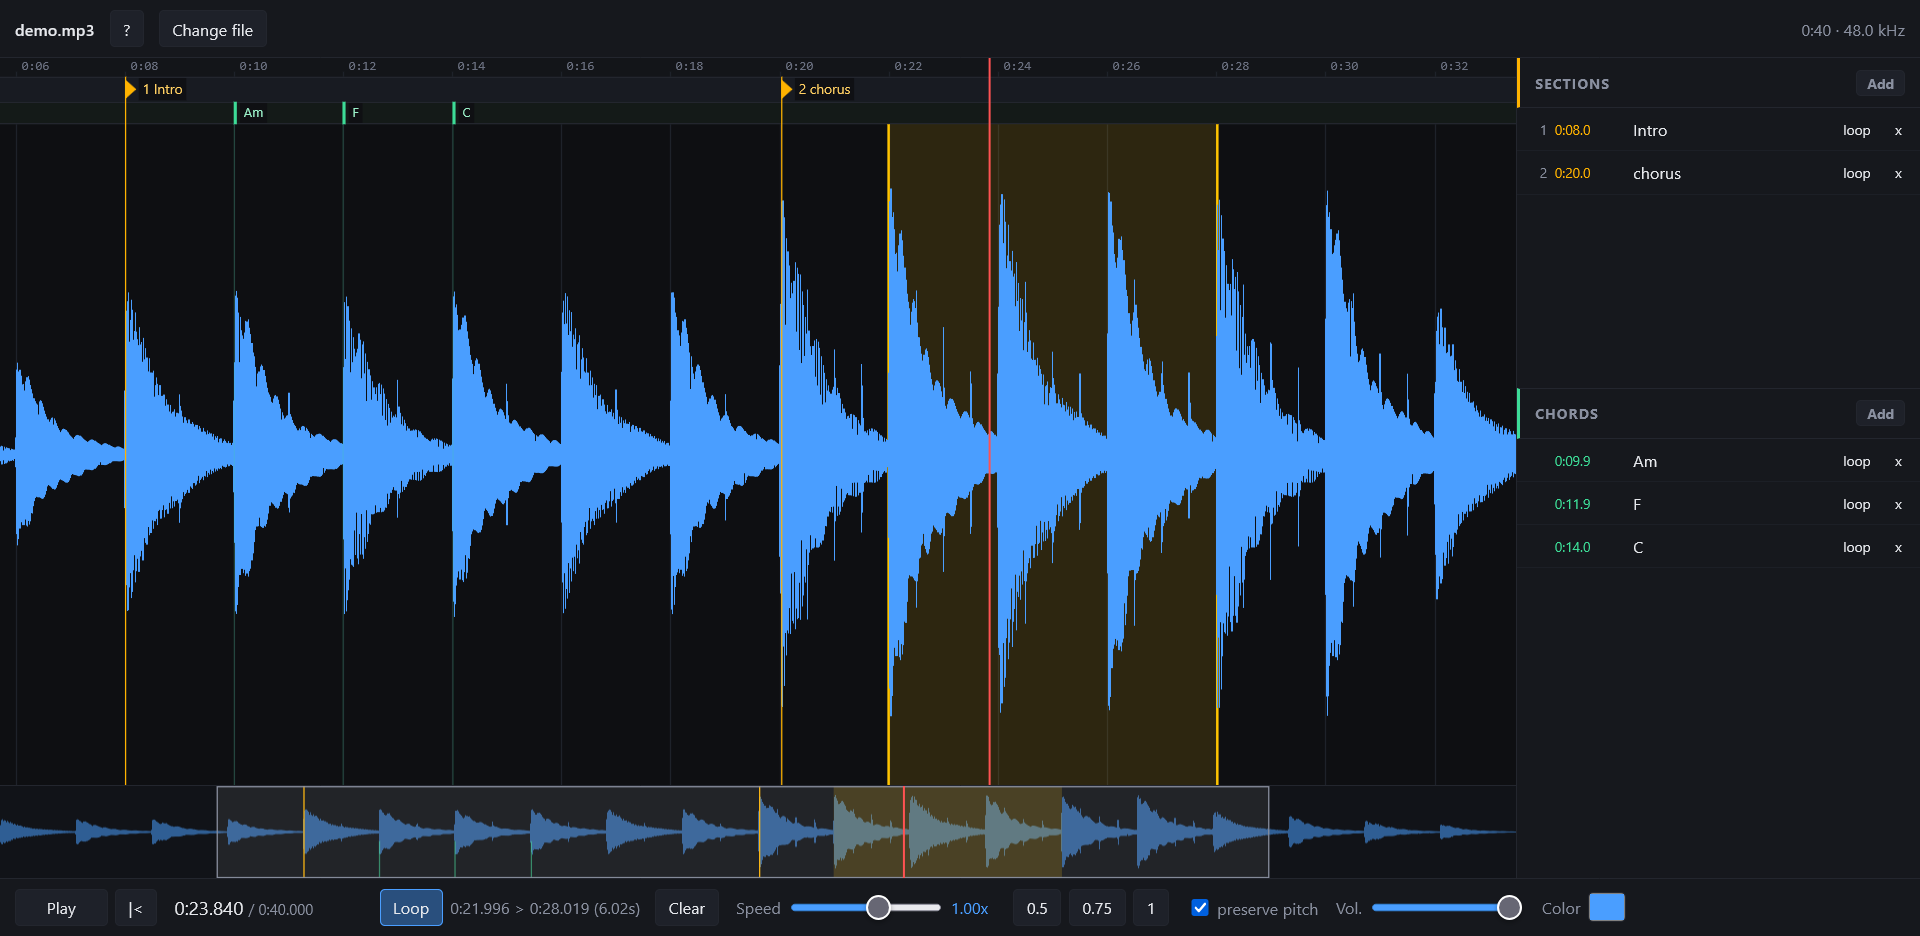
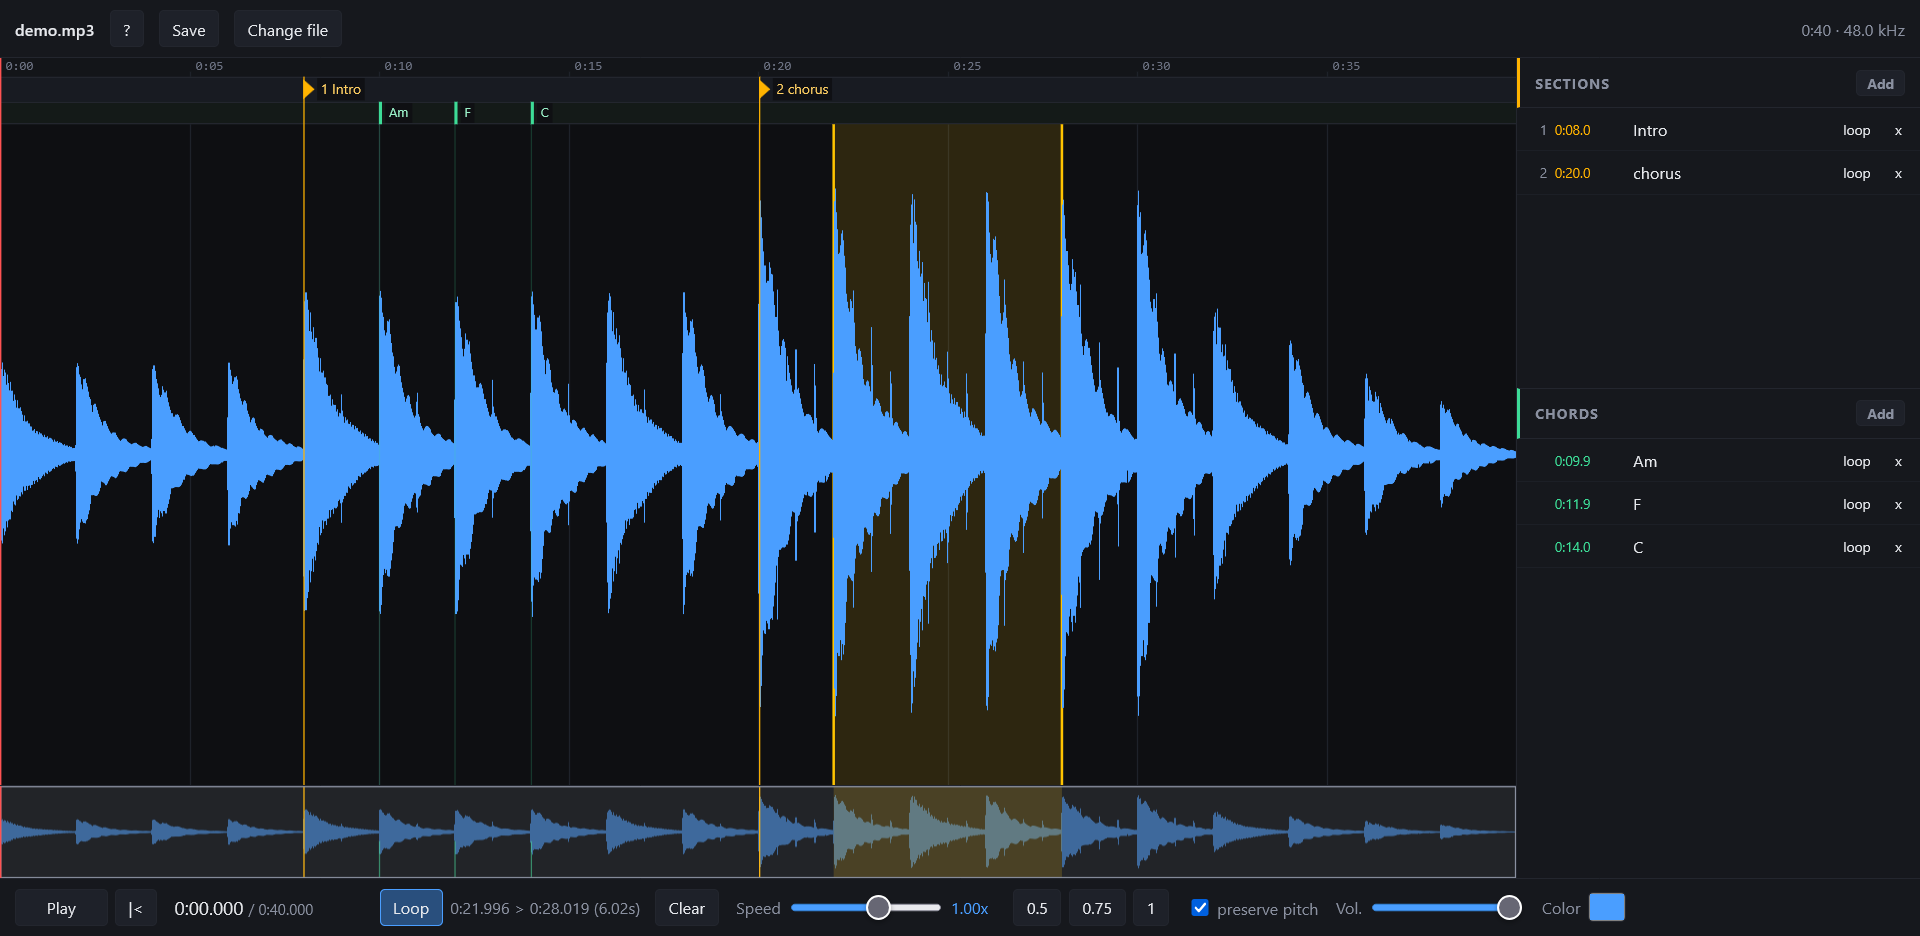
feat: save and load the markers as a file
localStorage is per browser and per machine, so work on the same song
could not move between machines. Add an export to a small .aures.json,
from the Save button or the S key, and an import by dropping that file
on the window, the same gesture that loads audio.

The document is matched against the size and duration of the open
audio, never against its name, so renaming the track does not break the
correspondence. A document from a different audio is refused outright:
the times would be meaningless against another cut of the song.

localStorage and the file now share one shape through snapshot() and
applyData(), rather than each keeping its own.

Claude-Session: https://claude.ai/code/session_01RhNtwW3cKpFYsckrPhUQWs

diff --git a/index.html b/index.html
@@ -184,6 +184,7 @@ input[type=color]{
   <header>
     <span class="name" id="fname"></span>
     <button id="hintbtn" title="Show or hide the shortcuts">?</button>
+    <button id="save" title="Save the markers to a file (S)">Save</button>
     <button id="close" title="Load another file">Change file</button>
     <span class="meta" id="fmeta"></span>
   </header>
@@ -227,6 +228,7 @@ input[type=color]{
                 <div class="row"><b>1..9</b>jump to section n</div>
                 <div class="row"><b>+ -</b>speed</div>
                 <div class="row"><b>F</b>follow the playhead</div>
+                <div class="row"><b>S</b>save the markers to a file</div>
                 <div class="row"><b>home</b>back to start</div>
                 <div class="row"><b>? / H</b>open or close this help</div>
               </div>
@@ -288,7 +290,7 @@ const audio = new Audio();
 audio.preload = "auto";
 
 const S = {
-  url:null, key:null, name:"",
+  url:null, key:null, name:"", size:0,
   peaks:null, nPeaks:0, sampleRate:44100, duration:0,
   view:{s:0, e:0},
   loop:{on:false, s:null, e:null},
@@ -319,6 +321,7 @@ async function load(file){
   S.peaks = null; S.nPeaks = 0;
   S.markers = []; S.chords = []; S.loop = {on:false, s:null, e:null};
   S.name = file.name;
+  S.size = file.size;
   S.url = URL.createObjectURL(file);
   audio.src = S.url;
 
@@ -389,31 +392,86 @@ function buildPeaks(ab){
 
 /* ---------- persistence ---------- */
 
-let saveT = null;
-function save(){
-  if(!S.key) return;
-  clearTimeout(saveT);
-  saveT = setTimeout(() => {
-    try{
-      localStorage.setItem(S.key, JSON.stringify({
-        markers: S.markers,
-        chords: S.chords,
-        loop: S.loop,
-        rate: audio.playbackRate,
-        pitch: $("pitch").checked
-      }));
-    }catch(e){ /* quota full or private mode: not critical */ }
-  }, 300);
+// the same shape goes to localStorage and to an exported file
+function snapshot(){
+  return {
+    markers: S.markers,
+    chords: S.chords,
+    loop: S.loop,
+    rate: audio.playbackRate,
+    pitch: $("pitch").checked
+  };
 }
-function restore(){
-  let d = null;
-  try{ d = JSON.parse(localStorage.getItem(S.key) || "null"); }catch(e){}
+function applyData(d){
   if(!d) return;
   S.markers = Array.isArray(d.markers) ? d.markers : [];
   S.chords  = Array.isArray(d.chords)  ? d.chords  : [];
   if(d.loop) S.loop = {on:!!d.loop.on, s:d.loop.s, e:d.loop.e};
   if(d.rate) setRate(d.rate);
   if(typeof d.pitch === "boolean"){ $("pitch").checked = d.pitch; applyPitch(); }
+}
+
+let saveT = null;
+function save(){
+  if(!S.key) return;
+  clearTimeout(saveT);
+  saveT = setTimeout(() => {
+    try{
+      localStorage.setItem(S.key, JSON.stringify(snapshot()));
+    }catch(e){ /* quota full or private mode: not critical */ }
+  }, 300);
+}
+function restore(){
+  let d = null;
+  try{ d = JSON.parse(localStorage.getItem(S.key) || "null"); }catch(e){}
+  applyData(d);
+}
+
+/* ---------- export and import ---------- */
+
+// localStorage is per browser and per machine. a file carries the work to
+// another machine, but only back onto the same audio: the times mean nothing
+// against a different cut of the song.
+
+let flashT = null;
+function flash(msg){
+  setStatus(msg);
+  clearTimeout(flashT);
+  flashT = setTimeout(() => setStatus(""), 4000);
+}
+
+function exportFile(){
+  if(!S.key) return;
+  const doc = {
+    app:"aures", v:1,
+    audio:{ name:S.name, size:S.size, duration:+S.duration.toFixed(2) },
+    data: snapshot()
+  };
+  const url = URL.createObjectURL(new Blob([JSON.stringify(doc, null, 2)], {type:"application/json"}));
+  const a = document.createElement("a");
+  a.href = url;
+  a.download = S.name.replace(/\.[^.]+$/, "") + ".aures.json";
+  a.click();
+  setTimeout(() => URL.revokeObjectURL(url), 1000);
+  flash("saved " + a.download);
+}
+
+function isDoc(file){ return /\.json$/i.test(file.name) || file.type === "application/json"; }
+
+async function importFile(file){
+  let doc = null;
+  try{ doc = JSON.parse(await file.text()); }catch(e){}
+  if(!doc || doc.app !== "aures" || !doc.data){ flash("not an aures file"); return; }
+  if(!S.key){ flash("open the audio first, then drop this file again"); return; }
+  const a = doc.audio || {};
+  // the name is not compared: renaming the audio must not break the match
+  if(a.size !== S.size || Math.abs((a.duration || 0) - S.duration) > 0.05){
+    flash("this file belongs to a different audio (" + (a.name || "unknown") + ")");
+    return;
+  }
+  applyData(doc.data);
+  renderAll(); refresh(); draw(); save();
+  flash("loaded " + file.name);
 }
 
 /* ---------- canvas ---------- */
@@ -996,6 +1054,7 @@ window.addEventListener("keydown", e => {
   if(k === "i" || k === "I"){ setLoopEdge("s"); return; }
   if(k === "o" || k === "O"){ setLoopEdge("e"); return; }
   if(k === "r" || k === "R"){ toggleLoop(); return; }
+  if(k === "s" || k === "S"){ e.preventDefault(); exportFile(); return; }
   if(k === "f" || k === "F"){
     S.follow = !S.follow;
     setStatus(S.follow ? "" : "follow off");
@@ -1017,6 +1076,7 @@ window.addEventListener("keydown", e => {
 
 $("play").onclick = togglePlay;
 $("home").onclick = () => seek(0);
+$("save").onclick = exportFile;
 $("loopbtn").onclick = toggleLoop;
 $("loopclr").onclick = () => { S.loop = {on:false, s:null, e:null}; refresh(); draw(); save(); };
 /* ---------- floating help over the waveform ---------- */
@@ -1068,7 +1128,8 @@ window.addEventListener("drop", e => {
   e.preventDefault();
   dz.classList.remove("over");
   const f = e.dataTransfer && e.dataTransfer.files[0];
-  if(f) load(f);
+  if(!f) return;
+  if(isDoc(f)) importFile(f); else load(f);
 });
 
 audio.addEventListener("timeupdate", () => { if(audio.paused) refresh(); });

diff --git a/state.md b/state.md
@@ -24,6 +24,9 @@ Creada el 2026-08-25. Nombrada `aures` el 2026-08-25: plural de auris, los oidos
 - Interfaz y comentarios del codigo en ingles. Traducidos desde espanol el 2026-08-30: 49 cadenas de interfaz y 48 comentarios. Motivo: repo publico con README en ingles. Los identificadores ya estaban en ingles, no se toco ninguno.
 - `demo.mp3` incluido en el repo: 40 s sinteticos generados con un script propio el 2026-08-30, sin derechos de terceros. Permite probar la app sin aportar audio y es la fuente de las capturas.
 - `screenshot.png` en el README, generado contra `demo.mp3`. Las capturas nunca se hacen contra audio real.
+- Guardar y cargar por archivo `.aures.json`, uno por cancion, arrastrable sobre la ventana igual que el audio. Decidido el 2026-08-30 porque localStorage no cruza de maquina.
+- El documento importado se valida contra `size` y `duration` del audio abierto, con 0.05 s de tolerancia, nunca contra el nombre: renombrar el mp3 no debe romper la correspondencia. Si no coinciden, no se importa nada y se avisa en la barra de estado.
+- `snapshot()` y `applyData()` compartidos por localStorage y por el archivo: un solo formato de datos, no dos.
 
 ## Estado y pendientes
 

diff --git a/README.md b/README.md
@@ -36,9 +36,21 @@ Double-click any marker to loop from there to the next one — the fastest way t
 | `,` `.` / `<` `>` | nudge loop start / end |
 | `1`..`9` | jump to section n |
 | `+` / `-` | speed |
+| `S` | save the markers to a file |
 | `F` | follow the playhead on / off |
 | `Home` | back to start, or to the loop start when a loop is on |
 | `?` or `H` | all shortcuts, including mouse |
+
+## Moving work between machines
+
+`localStorage` is per browser and per machine. Press `S`, or the **Save** button, to
+download a small `.aures.json` you can keep next to your audio. Drop that file on the
+page on another machine and the markers come back.
+
+It only loads back onto the same audio. The file records the size and duration of the
+track it came from and refuses to import onto anything else: the times would be
+meaningless against a different cut of the song. Renaming the audio file is fine, the
+name is not part of the check.
 
 ## Running it locally
 
